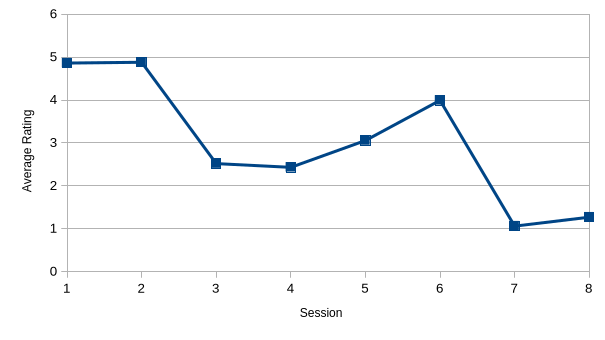
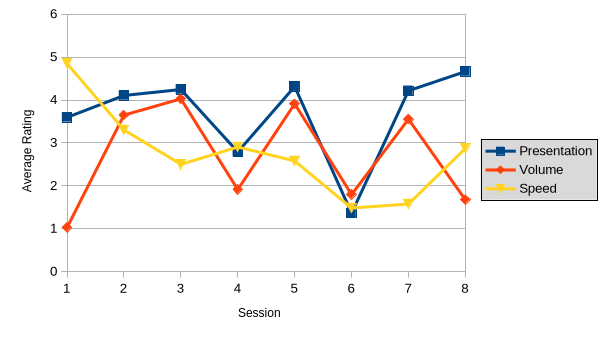
include all types of rating in course history and session review

diff --git a/student_session_review.html b/student_session_review.html
@@ -21,7 +21,7 @@
         <h2>Grundlagen der Mensch-Computer-Interaktion: Session 3</h2>
         <img src="session_review.png" alt="">
         <br>
-        You gave this Session 3 stars.
+        You gave this Session 3 stars for Presentation, 5 stars for Volume and 1 star for speed.
     </div>
 
     <br>
